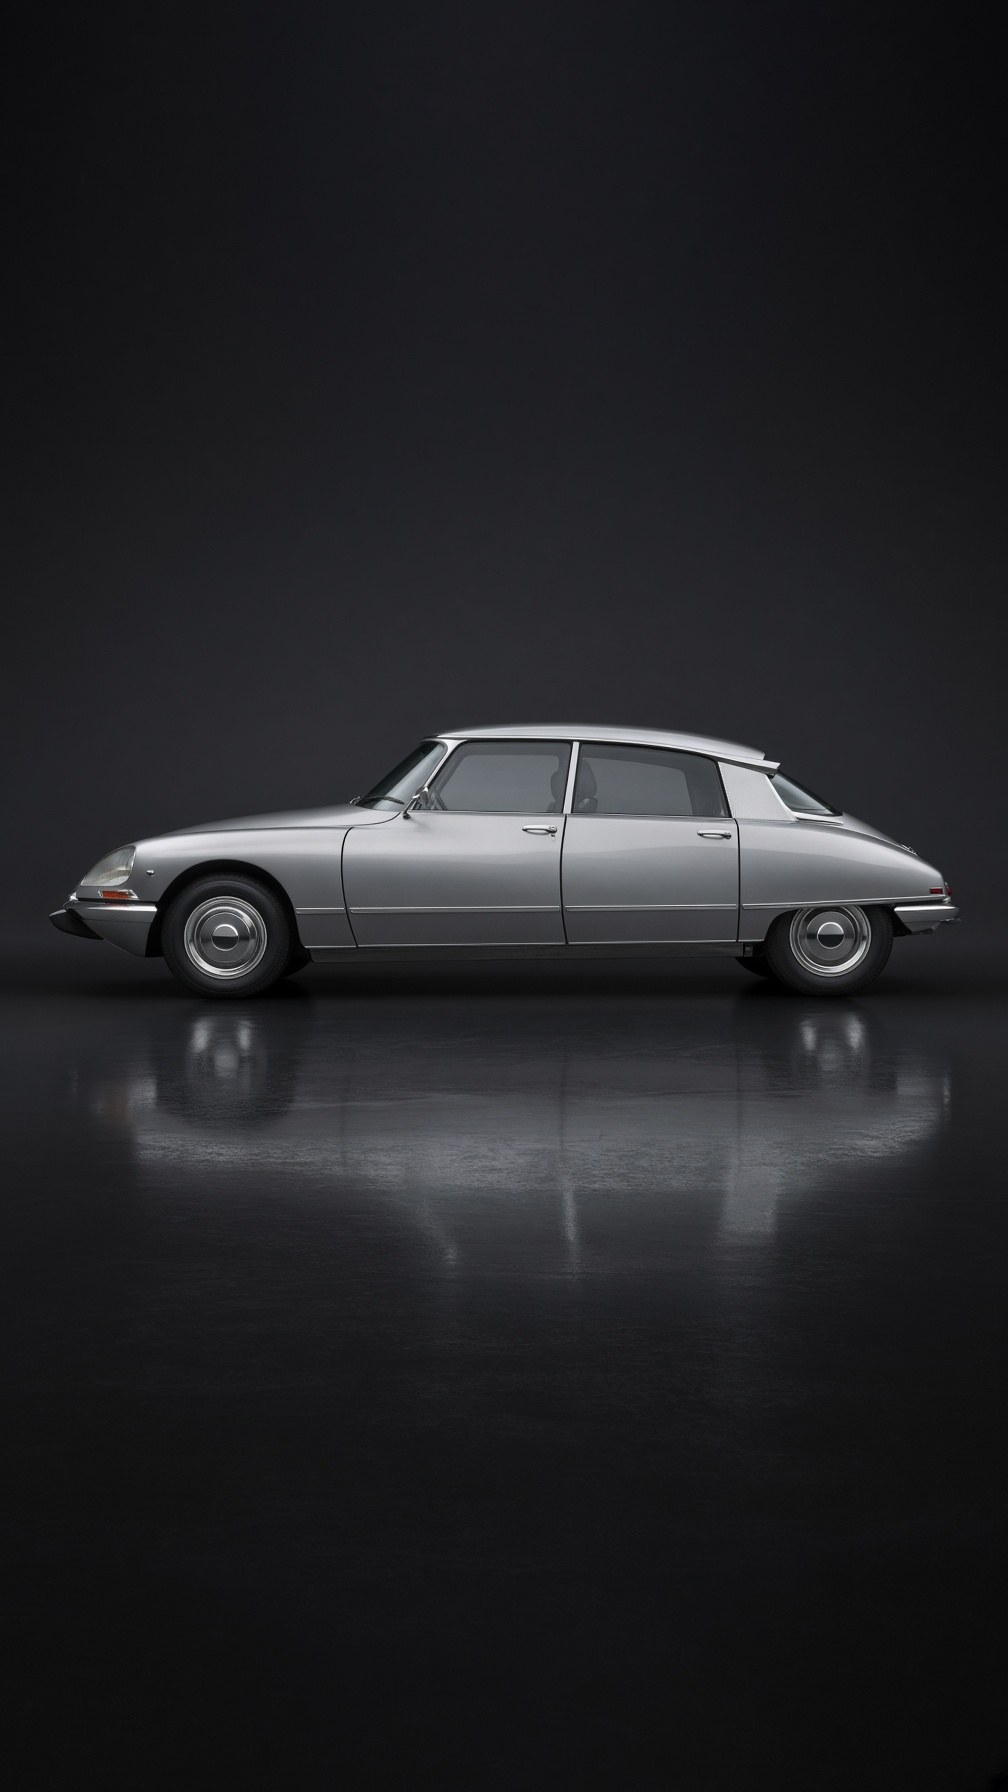
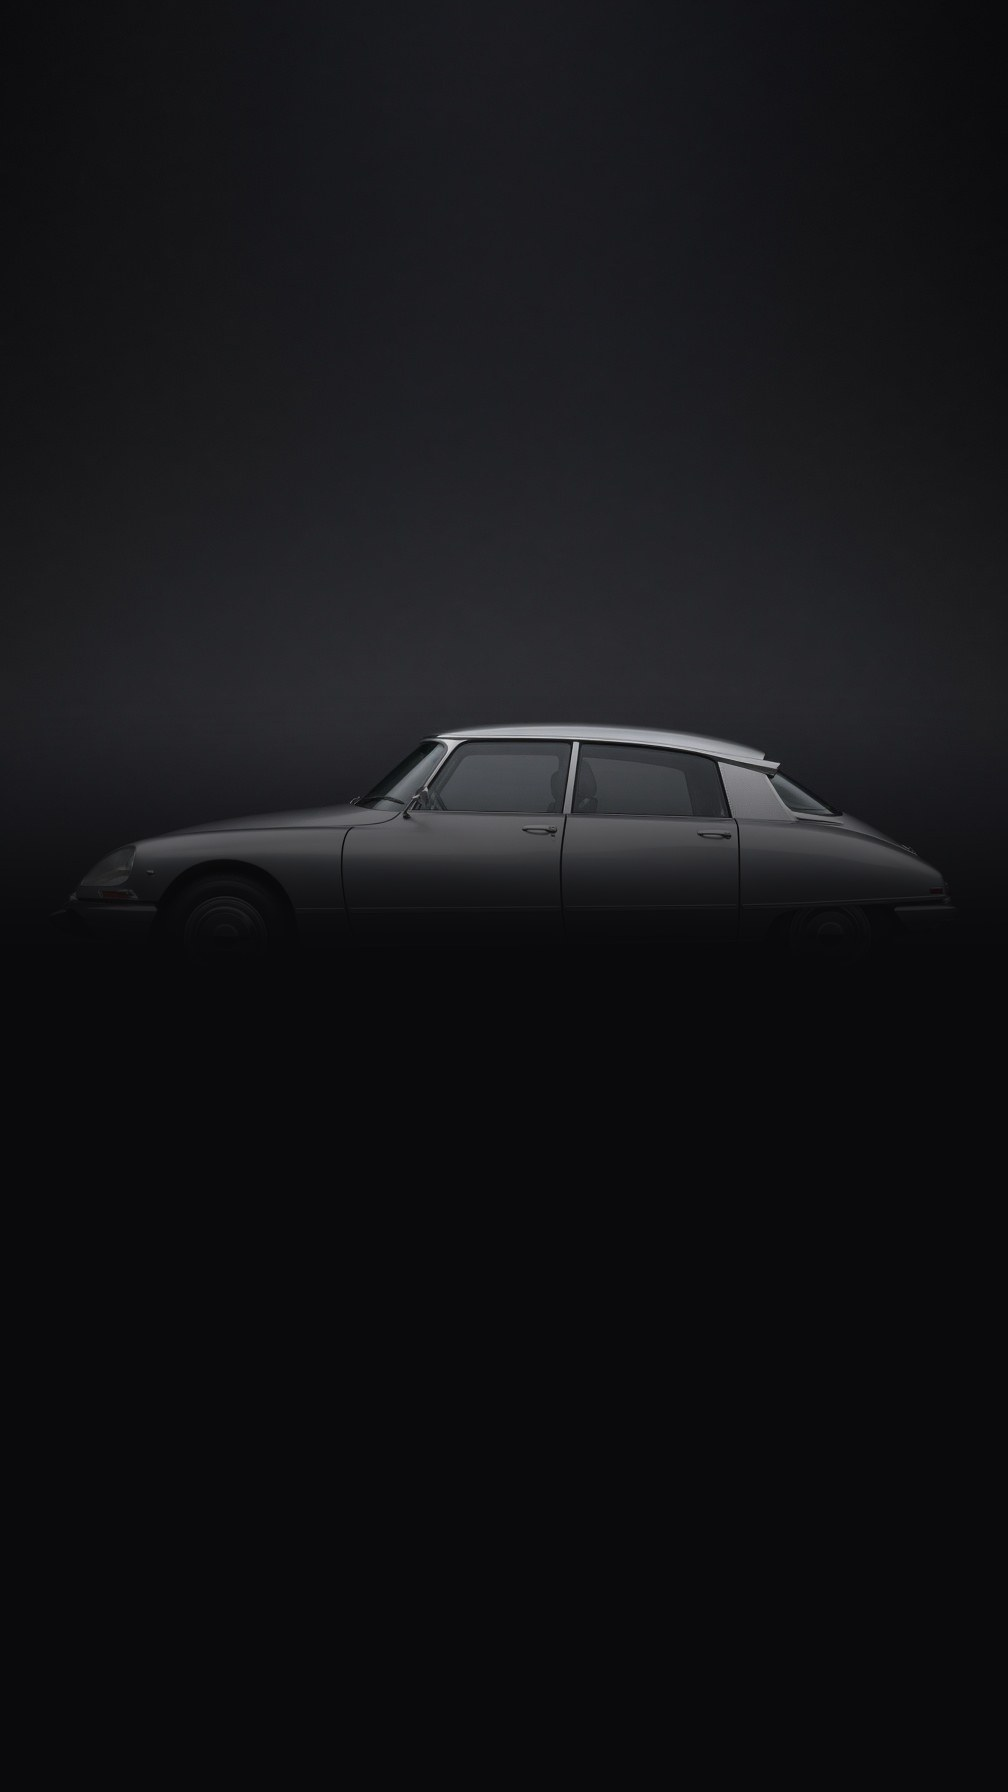
fix(home): kill floor-mirror second car on start-bgs
Replace all 30 start-bgs with crushed-floor assets, darken the
bottom veil, frame the upper car (object-position 32%), and
cache-bust to v=12. Keep PR #96 single-layer CSS.

Changed region(s): [[0.0, 0.4062, 1.0, 0.75]]

diff --git a/404.html b/404.html
@@ -569,9 +569,9 @@ button.doc-sq, a.doc-sq { width:100%; appearance:none; -webkit-appearance:none; 
 .hide { display:none !important; }
 .start { padding:0 !important; position:relative; overflow:hidden; background:#0b0b10; min-height:100dvh; }
 .start-bg { position:absolute; inset:0; background:#12141A; background-image:none; background-repeat:no-repeat; overflow:hidden; }
-.start-bg img { width:100%; height:100%; object-fit:cover; object-position:center 40%; display:block; opacity:.50; }
+.start-bg img { width:100%; height:100%; object-fit:cover; object-position:center 32%; display:block; opacity:.50; }
 .start-bg, .start-veil { pointer-events:none; }
-.start-veil { position:absolute; inset:0; background:linear-gradient(180deg,rgba(18,20,26,.55) 0%,rgba(18,20,26,.22) 38%,rgba(18,20,26,.82) 100%); }
+.start-veil { position:absolute; inset:0; background:linear-gradient(180deg,rgba(18,20,26,.55) 0%,rgba(18,20,26,.22) 38%,rgba(18,20,26,.94) 70%,rgba(18,20,26,.96) 100%); }
 .start-actions, .guest-story, .login-card, .login-hero, .who, .start-x, .start-more, .start-dock { pointer-events:auto; }
 /* Snow Signal — staff Home dock. Cool snow #F7F8FA + steel #2F5B8A. Faded car + frosted glass. Quiet Studio sage abandoned. Paper Desk abandoned. */
 #start.start {
@@ -2141,9 +2141,9 @@ label.k,.qs-k{font-size:11px;font-weight:500;color:var(--qs-ink3);letter-spacing
   pointer-events:none;position:absolute;inset:0;z-index:0;
 }
 #login .start-bg{background:#12141A;background-image:none;background-repeat:no-repeat}
-#login .start-bg img{width:100%;height:100%;object-fit:cover;object-position:center 40%;opacity:.50}
+#login .start-bg img{width:100%;height:100%;object-fit:cover;object-position:center 32%;opacity:.50}
 #login .start-veil{
-  background:linear-gradient(180deg,rgba(18,20,26,0) 0%,rgba(18,20,26,.18) 55%,rgba(18,20,26,.78) 100%),linear-gradient(90deg,rgba(18,20,26,.62) 0%,rgba(18,20,26,.28) 48%,rgba(18,20,26,.48) 100%);
+  background:linear-gradient(180deg,rgba(18,20,26,0) 0%,rgba(18,20,26,.18) 38%,rgba(18,20,26,.94) 70%,rgba(18,20,26,.96) 100%),linear-gradient(90deg,rgba(18,20,26,.62) 0%,rgba(18,20,26,.28) 48%,rgba(18,20,26,.48) 100%);
 }
 #login .login-hero,#login .login-card{z-index:6}
 #login .login-hero{
@@ -2206,9 +2206,9 @@ html:has(#start.on),body:has(#start.on){background:#12141A!important}
   pointer-events:none;position:absolute;inset:0;z-index:0;
 }
 #start .start-bg{background:#12141A;background-image:none;background-repeat:no-repeat}
-#start .start-bg img{width:100%;height:100%;object-fit:cover;object-position:center 40%;opacity:.50}
+#start .start-bg img{width:100%;height:100%;object-fit:cover;object-position:center 32%;opacity:.50}
 #start .start-veil{
-  background:linear-gradient(180deg,rgba(18,20,26,0) 0%,rgba(18,20,26,.18) 55%,rgba(18,20,26,.78) 100%),linear-gradient(90deg,rgba(18,20,26,.62) 0%,rgba(18,20,26,.28) 48%,rgba(18,20,26,.48) 100%);
+  background:linear-gradient(180deg,rgba(18,20,26,0) 0%,rgba(18,20,26,.18) 38%,rgba(18,20,26,.94) 70%,rgba(18,20,26,.96) 100%),linear-gradient(90deg,rgba(18,20,26,.62) 0%,rgba(18,20,26,.28) 48%,rgba(18,20,26,.48) 100%);
 }
 #start .start-brand{
   color:#fff!important;pointer-events:none;z-index:6
@@ -2607,7 +2607,7 @@ html:has(#start.on),body:has(#start.on){background:#12141A!important}
 </div>
 
 <section class="screen on start" id="login">
-  <div class="start-bg"><img id="loginBg" src="https://carmojiguy.github.io/start-bgs/01.jpg?v=10" alt=""></div>
+  <div class="start-bg"><img id="loginBg" src="https://carmojiguy.github.io/start-bgs/01.jpg?v=12" alt=""></div>
   <div class="start-veil"></div>
   <div class="login-hero">
     <p class="login-kicker">GNM STAFF</p>
@@ -2640,7 +2640,7 @@ html:has(#start.on),body:has(#start.on){background:#12141A!important}
 </section>
 
 <section class="screen start" id="start">
-  <div class="start-bg"><img id="startBg" src="https://carmojiguy.github.io/start-bgs/01.jpg?v=10" alt=""></div>
+  <div class="start-bg"><img id="startBg" src="https://carmojiguy.github.io/start-bgs/01.jpg?v=12" alt=""></div>
   <div class="start-veil"></div>
   <div class="start-brand" id="startBrand">
     <p class="start-kicker">GNM STAFF · LOT DESK</p>
@@ -5097,7 +5097,7 @@ function show(id){
         for(var i=APP._bgs.length-1;i>0;i--){ var j=Math.floor(Math.random()*(i+1)); var t=APP._bgs[i]; APP._bgs[i]=APP._bgs[j]; APP._bgs[j]=t; }
       }
       var n = APP._bgs.pop();
-      img.src = assetUrl("start-bgs/" + String(n).padStart(2,"0") + ".jpg?v=10");
+      img.src = assetUrl("start-bgs/" + String(n).padStart(2,"0") + ".jpg?v=12");
     }
   }
   if(id==="photos"){ paintLists(); paintDocs(); paintWebsitePhotosChrome(); }

diff --git a/index.html b/index.html
@@ -569,9 +569,9 @@ button.doc-sq, a.doc-sq { width:100%; appearance:none; -webkit-appearance:none; 
 .hide { display:none !important; }
 .start { padding:0 !important; position:relative; overflow:hidden; background:#0b0b10; min-height:100dvh; }
 .start-bg { position:absolute; inset:0; background:#12141A; background-image:none; background-repeat:no-repeat; overflow:hidden; }
-.start-bg img { width:100%; height:100%; object-fit:cover; object-position:center 40%; display:block; opacity:.50; }
+.start-bg img { width:100%; height:100%; object-fit:cover; object-position:center 32%; display:block; opacity:.50; }
 .start-bg, .start-veil { pointer-events:none; }
-.start-veil { position:absolute; inset:0; background:linear-gradient(180deg,rgba(18,20,26,.55) 0%,rgba(18,20,26,.22) 38%,rgba(18,20,26,.82) 100%); }
+.start-veil { position:absolute; inset:0; background:linear-gradient(180deg,rgba(18,20,26,.55) 0%,rgba(18,20,26,.22) 38%,rgba(18,20,26,.94) 70%,rgba(18,20,26,.96) 100%); }
 .start-actions, .guest-story, .login-card, .login-hero, .who, .start-x, .start-more, .start-dock { pointer-events:auto; }
 /* Snow Signal — staff Home dock. Cool snow #F7F8FA + steel #2F5B8A. Faded car + frosted glass. Quiet Studio sage abandoned. Paper Desk abandoned. */
 #start.start {
@@ -2141,9 +2141,9 @@ label.k,.qs-k{font-size:11px;font-weight:500;color:var(--qs-ink3);letter-spacing
   pointer-events:none;position:absolute;inset:0;z-index:0;
 }
 #login .start-bg{background:#12141A;background-image:none;background-repeat:no-repeat}
-#login .start-bg img{width:100%;height:100%;object-fit:cover;object-position:center 40%;opacity:.50}
+#login .start-bg img{width:100%;height:100%;object-fit:cover;object-position:center 32%;opacity:.50}
 #login .start-veil{
-  background:linear-gradient(180deg,rgba(18,20,26,0) 0%,rgba(18,20,26,.18) 55%,rgba(18,20,26,.78) 100%),linear-gradient(90deg,rgba(18,20,26,.62) 0%,rgba(18,20,26,.28) 48%,rgba(18,20,26,.48) 100%);
+  background:linear-gradient(180deg,rgba(18,20,26,0) 0%,rgba(18,20,26,.18) 38%,rgba(18,20,26,.94) 70%,rgba(18,20,26,.96) 100%),linear-gradient(90deg,rgba(18,20,26,.62) 0%,rgba(18,20,26,.28) 48%,rgba(18,20,26,.48) 100%);
 }
 #login .login-hero,#login .login-card{z-index:6}
 #login .login-hero{
@@ -2206,9 +2206,9 @@ html:has(#start.on),body:has(#start.on){background:#12141A!important}
   pointer-events:none;position:absolute;inset:0;z-index:0;
 }
 #start .start-bg{background:#12141A;background-image:none;background-repeat:no-repeat}
-#start .start-bg img{width:100%;height:100%;object-fit:cover;object-position:center 40%;opacity:.50}
+#start .start-bg img{width:100%;height:100%;object-fit:cover;object-position:center 32%;opacity:.50}
 #start .start-veil{
-  background:linear-gradient(180deg,rgba(18,20,26,0) 0%,rgba(18,20,26,.18) 55%,rgba(18,20,26,.78) 100%),linear-gradient(90deg,rgba(18,20,26,.62) 0%,rgba(18,20,26,.28) 48%,rgba(18,20,26,.48) 100%);
+  background:linear-gradient(180deg,rgba(18,20,26,0) 0%,rgba(18,20,26,.18) 38%,rgba(18,20,26,.94) 70%,rgba(18,20,26,.96) 100%),linear-gradient(90deg,rgba(18,20,26,.62) 0%,rgba(18,20,26,.28) 48%,rgba(18,20,26,.48) 100%);
 }
 #start .start-brand{
   color:#fff!important;pointer-events:none;z-index:6
@@ -2607,7 +2607,7 @@ html:has(#start.on),body:has(#start.on){background:#12141A!important}
 </div>
 
 <section class="screen on start" id="login">
-  <div class="start-bg"><img id="loginBg" src="https://carmojiguy.github.io/start-bgs/01.jpg?v=10" alt=""></div>
+  <div class="start-bg"><img id="loginBg" src="https://carmojiguy.github.io/start-bgs/01.jpg?v=12" alt=""></div>
   <div class="start-veil"></div>
   <div class="login-hero">
     <p class="login-kicker">GNM STAFF</p>
@@ -2640,7 +2640,7 @@ html:has(#start.on),body:has(#start.on){background:#12141A!important}
 </section>
 
 <section class="screen start" id="start">
-  <div class="start-bg"><img id="startBg" src="https://carmojiguy.github.io/start-bgs/01.jpg?v=10" alt=""></div>
+  <div class="start-bg"><img id="startBg" src="https://carmojiguy.github.io/start-bgs/01.jpg?v=12" alt=""></div>
   <div class="start-veil"></div>
   <div class="start-brand" id="startBrand">
     <p class="start-kicker">GNM STAFF · LOT DESK</p>
@@ -5097,7 +5097,7 @@ function show(id){
         for(var i=APP._bgs.length-1;i>0;i--){ var j=Math.floor(Math.random()*(i+1)); var t=APP._bgs[i]; APP._bgs[i]=APP._bgs[j]; APP._bgs[j]=t; }
       }
       var n = APP._bgs.pop();
-      img.src = assetUrl("start-bgs/" + String(n).padStart(2,"0") + ".jpg?v=10");
+      img.src = assetUrl("start-bgs/" + String(n).padStart(2,"0") + ".jpg?v=12");
     }
   }
   if(id==="photos"){ paintLists(); paintDocs(); paintWebsitePhotosChrome(); }

diff --git a/inspect-vehicle.html b/inspect-vehicle.html
@@ -569,9 +569,9 @@ button.doc-sq, a.doc-sq { width:100%; appearance:none; -webkit-appearance:none; 
 .hide { display:none !important; }
 .start { padding:0 !important; position:relative; overflow:hidden; background:#0b0b10; min-height:100dvh; }
 .start-bg { position:absolute; inset:0; background:#12141A; background-image:none; background-repeat:no-repeat; overflow:hidden; }
-.start-bg img { width:100%; height:100%; object-fit:cover; object-position:center 40%; display:block; opacity:.50; }
+.start-bg img { width:100%; height:100%; object-fit:cover; object-position:center 32%; display:block; opacity:.50; }
 .start-bg, .start-veil { pointer-events:none; }
-.start-veil { position:absolute; inset:0; background:linear-gradient(180deg,rgba(18,20,26,.55) 0%,rgba(18,20,26,.22) 38%,rgba(18,20,26,.82) 100%); }
+.start-veil { position:absolute; inset:0; background:linear-gradient(180deg,rgba(18,20,26,.55) 0%,rgba(18,20,26,.22) 38%,rgba(18,20,26,.94) 70%,rgba(18,20,26,.96) 100%); }
 .start-actions, .guest-story, .login-card, .login-hero, .who, .start-x, .start-more, .start-dock { pointer-events:auto; }
 /* Snow Signal — staff Home dock. Cool snow #F7F8FA + steel #2F5B8A. Faded car + frosted glass. Quiet Studio sage abandoned. Paper Desk abandoned. */
 #start.start {
@@ -2141,9 +2141,9 @@ label.k,.qs-k{font-size:11px;font-weight:500;color:var(--qs-ink3);letter-spacing
   pointer-events:none;position:absolute;inset:0;z-index:0;
 }
 #login .start-bg{background:#12141A;background-image:none;background-repeat:no-repeat}
-#login .start-bg img{width:100%;height:100%;object-fit:cover;object-position:center 40%;opacity:.50}
+#login .start-bg img{width:100%;height:100%;object-fit:cover;object-position:center 32%;opacity:.50}
 #login .start-veil{
-  background:linear-gradient(180deg,rgba(18,20,26,0) 0%,rgba(18,20,26,.18) 55%,rgba(18,20,26,.78) 100%),linear-gradient(90deg,rgba(18,20,26,.62) 0%,rgba(18,20,26,.28) 48%,rgba(18,20,26,.48) 100%);
+  background:linear-gradient(180deg,rgba(18,20,26,0) 0%,rgba(18,20,26,.18) 38%,rgba(18,20,26,.94) 70%,rgba(18,20,26,.96) 100%),linear-gradient(90deg,rgba(18,20,26,.62) 0%,rgba(18,20,26,.28) 48%,rgba(18,20,26,.48) 100%);
 }
 #login .login-hero,#login .login-card{z-index:6}
 #login .login-hero{
@@ -2206,9 +2206,9 @@ html:has(#start.on),body:has(#start.on){background:#12141A!important}
   pointer-events:none;position:absolute;inset:0;z-index:0;
 }
 #start .start-bg{background:#12141A;background-image:none;background-repeat:no-repeat}
-#start .start-bg img{width:100%;height:100%;object-fit:cover;object-position:center 40%;opacity:.50}
+#start .start-bg img{width:100%;height:100%;object-fit:cover;object-position:center 32%;opacity:.50}
 #start .start-veil{
-  background:linear-gradient(180deg,rgba(18,20,26,0) 0%,rgba(18,20,26,.18) 55%,rgba(18,20,26,.78) 100%),linear-gradient(90deg,rgba(18,20,26,.62) 0%,rgba(18,20,26,.28) 48%,rgba(18,20,26,.48) 100%);
+  background:linear-gradient(180deg,rgba(18,20,26,0) 0%,rgba(18,20,26,.18) 38%,rgba(18,20,26,.94) 70%,rgba(18,20,26,.96) 100%),linear-gradient(90deg,rgba(18,20,26,.62) 0%,rgba(18,20,26,.28) 48%,rgba(18,20,26,.48) 100%);
 }
 #start .start-brand{
   color:#fff!important;pointer-events:none;z-index:6
@@ -2607,7 +2607,7 @@ html:has(#start.on),body:has(#start.on){background:#12141A!important}
 </div>
 
 <section class="screen on start" id="login">
-  <div class="start-bg"><img id="loginBg" src="https://carmojiguy.github.io/start-bgs/01.jpg?v=10" alt=""></div>
+  <div class="start-bg"><img id="loginBg" src="https://carmojiguy.github.io/start-bgs/01.jpg?v=12" alt=""></div>
   <div class="start-veil"></div>
   <div class="login-hero">
     <p class="login-kicker">GNM STAFF</p>
@@ -2640,7 +2640,7 @@ html:has(#start.on),body:has(#start.on){background:#12141A!important}
 </section>
 
 <section class="screen start" id="start">
-  <div class="start-bg"><img id="startBg" src="https://carmojiguy.github.io/start-bgs/01.jpg?v=10" alt=""></div>
+  <div class="start-bg"><img id="startBg" src="https://carmojiguy.github.io/start-bgs/01.jpg?v=12" alt=""></div>
   <div class="start-veil"></div>
   <div class="start-brand" id="startBrand">
     <p class="start-kicker">GNM STAFF · LOT DESK</p>
@@ -5097,7 +5097,7 @@ function show(id){
         for(var i=APP._bgs.length-1;i>0;i--){ var j=Math.floor(Math.random()*(i+1)); var t=APP._bgs[i]; APP._bgs[i]=APP._bgs[j]; APP._bgs[j]=t; }
       }
       var n = APP._bgs.pop();
-      img.src = assetUrl("start-bgs/" + String(n).padStart(2,"0") + ".jpg?v=10");
+      img.src = assetUrl("start-bgs/" + String(n).padStart(2,"0") + ".jpg?v=12");
     }
   }
   if(id==="photos"){ paintLists(); paintDocs(); paintWebsitePhotosChrome(); }

diff --git a/email/home-dock-control.test.js b/email/home-dock-control.test.js
@@ -62,7 +62,9 @@ must(/#start \.start-brand \{[\s\S]{0,220}left:8%/, "desktop brand sits on the l
 must(/#start \.start-dock \{[\s\S]{0,280}right:7%/, "desktop dock floats on the right");
 must(/#start \.start-dock\{[\s\S]{0,280}background:rgba\(255,255,255,\.72\)/, "desktop dock is frosted glass");
 
-must(/\.start-veil \{ position:absolute; inset:0; background:linear-gradient\(180deg,rgba\(18,20,26,\.55\)/, "login veil is the Snow Signal scrim");
+must(/\.start-veil \{ position:absolute; inset:0; background:linear-gradient\(180deg,rgba\(18,20,26,\.55\) 0%,rgba\(18,20,26,\.22\) 38%,rgba\(18,20,26,\.94\) 70%,rgba\(18,20,26,\.96\) 100%/, "login veil is the Snow Signal scrim, floor crushed dark");
+must(/#login \.start-veil\{[\s\S]{0,220}rgba\(18,20,26,\.94\) 70%/, "login override veil is near-opaque by 70%");
+must(/#start \.start-veil\{[\s\S]{0,220}rgba\(18,20,26,\.94\) 70%/, "staff Home override veil is near-opaque by 70%");
 must(/\.login-hero \.login-kicker \{ color:rgba\(255,255,255,\.80\)/, "login kicker is white on the car");
 must(/\.login-hero h1 \{ margin:0 0 10px; font-size:34px; letter-spacing:-.7px; line-height:1.08; color:#fff/, "login title stays white on the car");
 must(/#login \.login-card\{[\s\S]*?backdrop-filter:blur\(22px\)/, "login card is frosted glass");

diff --git a/email/quiet-studio.test.js b/email/quiet-studio.test.js
@@ -80,6 +80,14 @@ must(/#login \.start-bg\{background:#12141A;background-image:none/, "login canva
 must(/#start \.start-bg\{background:#12141A;background-image:none/, "staff Home canvas has no CSS photo");
 must(/id="loginBg"/, "login keeps a single img hero");
 must(/id="startBg"/, "staff Home keeps a single img hero");
+must(/\.start-bg img \{[^}]*object-position:center 32%/, "hero favors the upper car now that the floor is black");
+must(/#login \.start-bg img\{[^}]*object-position:center 32%/, "login img is framed on the upper car");
+must(/#start \.start-bg img\{[^}]*object-position:center 32%/, "staff Home img is framed on the upper car");
+must(/start-bgs\/01\.jpg\?v=12/, "login/start img cache-bust is v=12");
+must(/\.jpg\?v=12/, "JS start-bg paint cache-bust is v=12");
+mustNot(/start-bgs\/[^\s"']+\?v=10/, "old v=10 start-bg URLs are gone");
+must(/rgba\(18,20,26,\.94\) 70%/, "veil hits near-opaque dark by 70%");
+must(/rgba\(18,20,26,\.96\) 100%/, "veil stays dark through the floor");
 must(/#login #btnGoogle,#login \.gbtn\{[\s\S]{0,80}background:#2F5B8A/, "Google is steel primary");
 mustNot(/#3D5A4C/, "Quiet Studio sage is gone");
 mustNot(/One car at a time/, "no workbench essay");
